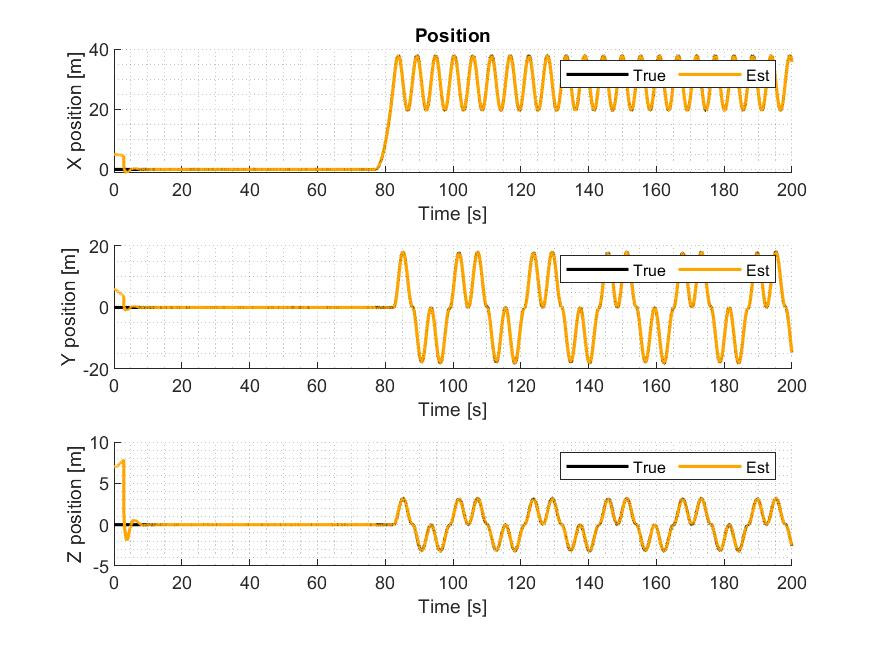
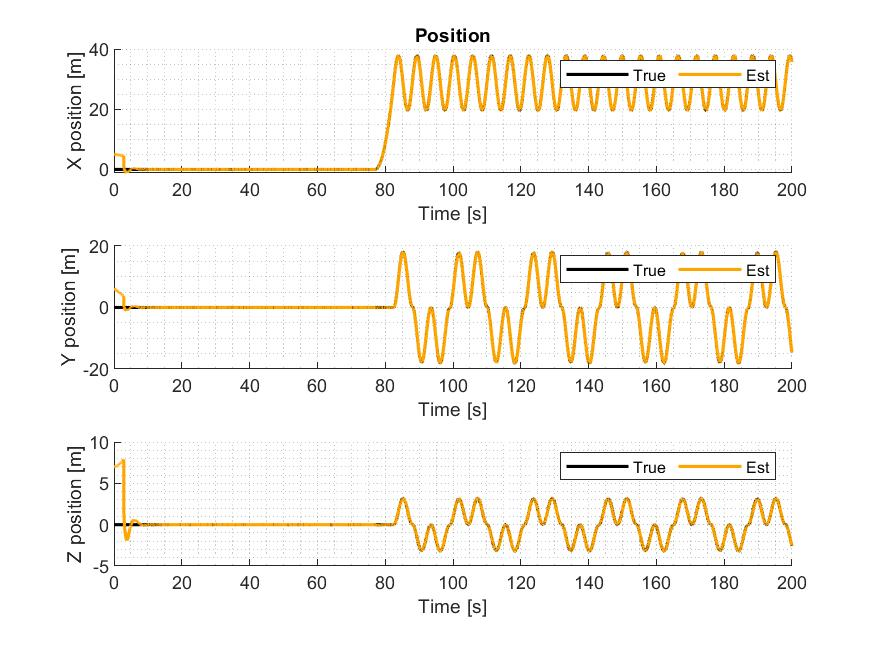
Remove the gravity from the error state vector. The results were identical to before...

diff --git a/ESKF/ErrorStateKalman_sola.m b/ESKF/ErrorStateKalman_sola.m
@@ -75,28 +75,28 @@ function [delta_x, E] = ErrorStateKalman_sola(f_b_ins, race_started, r_b_1, r_b_
 %                        1e-10 1e-10 1e-10 ...
 %                        1e-6 1e-6 1e-6]); 
                    
-       P_hat = diag([1e-1 * ones(1, 3) 1e-2 * ones(1, 3) 5e-2 * ones(1, 3) 1e-10 * ones(1, 3) 1e-6 * ones(1, 3) 1e-6 * ones(1, 3)]);  % Initial error covariance
+       P_hat = diag([1e-1 * ones(1, 3) 1e-2 * ones(1, 3) 5e-2 * ones(1, 3) 1e-10 * ones(1, 3) 1e-6 * ones(1, 3)]);  % Initial error covariance
 
        delta_x = 0;
        
     else
-          A_dp = [Z3  I3  Z3  Z3  Z3  Z3];
-          A_dv = [Z3  Z3  -R_nb_hat  -R_nb_hat*Smtrx(f_b_imu - bacc_b_ins)  Z3  I3];
-          A_dbacc = [Z3  Z3  -(1/Tacc)*I3  Z3  Z3  Z3];
-          A_dtheta = [Z3  Z3  Z3  -Smtrx(omega_b_imu - bars_b_ins)  -I3  Z3];
-          A_dbars = [Z3  Z3  Z3  Z3  -(1/Tars)*I3  Z3];
-          A_dg = [Z3  Z3  Z3  Z3  Z3  Z3];
+          A_dp = [Z3  I3  Z3  Z3  Z3 ];
+          A_dv = [Z3  Z3  -R_nb_hat  -R_nb_hat*Smtrx(f_b_imu - bacc_b_ins)  Z3 ];
+          A_dbacc = [Z3  Z3  -(1/Tacc)*I3  Z3  Z3];
+          A_dtheta = [Z3  Z3  Z3  -Smtrx(omega_b_imu - bars_b_ins)  -I3];
+          A_dbars = [Z3  Z3  Z3  Z3  -(1/Tars)*I3];
+          A_dg = [Z3  Z3  Z3  Z3  Z3];
           
           if (~race_started)
               % Do not estimate 
-              A_dv = [Z3  Z3  -R_nb_hat  -R_nb_hat*Smtrx(f_b_imu - bacc_b_ins)  Z3  Z3];
+              A_dv = [Z3  Z3  -R_nb_hat  -R_nb_hat*Smtrx(f_b_imu - bacc_b_ins)  Z3 ];
           end
           
-          A =  [A_dp ; A_dv ; A_dbacc ; A_dtheta ; A_dbars ; A_dg];
+          A =  [A_dp ; A_dv ; A_dbacc ; A_dtheta ; A_dbars ];
           
           
          % Discrete-time model
-         Ad = eye(18) + h * A;
+         Ad = eye(15) + h * A;
 %          if (~race_started)
 %              % Do not estimate gravity error
 %              Ad = blkdiag(I3,I3,I3,I3,I3,Z3) + h * A;
@@ -115,20 +115,20 @@ function [delta_x, E] = ErrorStateKalman_sola(f_b_ins, race_started, r_b_1, r_b_
                 -R_nb_hat      Z3    Z3   Z3    % w_acc
                        Z3      I3    Z3   Z3    % w_acc_bias
                        Z3      Z3   -I3   Z3    % w_ars
-                       Z3      Z3    Z3   I3  % w_ars_bias
-                       Z3      Z3    Z3   Z3 ]; 
+                       Z3      Z3    Z3   I3];  % w_ars_bias
+%                        Z3      Z3    Z3   Z3]; 
 
           
 %           H = [ I3 Z3 Z3 Z3 Z3 Z3
 %                 I3 Z3 Z3 I3 Z3 Z3];
 
-          H_gnss1 = [I3  Z3  Z3  -R_nb_hat*Smtrx(r_b_1)  Z3  Z3];
+          H_gnss1 = [I3  Z3  Z3  -R_nb_hat*Smtrx(r_b_1)  Z3];
           
-          H_gnss2 = [I3  Z3  Z3  -R_nb_hat*Smtrx(r_b_2)  Z3  Z3];
+          H_gnss2 = [I3  Z3  Z3  -R_nb_hat*Smtrx(r_b_2)  Z3];
           
-          H_vec = [Z3  Z3  Z3  -Smtrx(R_nb_hat*(r_b_2-r_b_1))  Z3  Z3];
+          H_vec = [Z3  Z3  Z3  -Smtrx(R_nb_hat*(r_b_2-r_b_1))  Z3];
           
-          H_acc = [Z3  Z3  Z3  -Smtrx(R_nb_hat' * g_n_nb)  Z3  Z3];              
+          H_acc = [Z3  Z3  Z3  -Smtrx(R_nb_hat' * g_n_nb)  Z3];              
 %           H_acc = [Z3  Z3  Z3  Z3  Z3  Z3]; 
 
           H_gss_pos = [ 0, 0, 0];
@@ -138,7 +138,7 @@ function [delta_x, E] = ErrorStateKalman_sola(f_b_ins, race_started, r_b_1, r_b_
           H_gss_bars = [(r_b_3(3)*(R_nb_hat(1,2)*v_n_ins(1) + R_nb_hat(2,2)*v_n_ins(2) + R_nb_hat(3,2)*v_n_ins(3) - bars_b_ins(2)*r_b_3(1) + bars_b_ins(1)*r_b_3(3) - omega_b_imu(1)*r_b_3(3) + omega_b_imu(3)*r_b_3(1)))/((R_nb_hat(1,2)*v_n_ins(1) + R_nb_hat(2,2)*v_n_ins(2) + R_nb_hat(3,2)*v_n_ins(3) - bars_b_ins(2)*r_b_3(1) + bars_b_ins(1)*r_b_3(3) - omega_b_imu(1)*r_b_3(3) + omega_b_imu(3)*r_b_3(1))^2 + (R_nb_hat(1,1)*v_n_ins(1) + R_nb_hat(1,3)*v_n_ins(2) + R_nb_hat(2,3)*v_n_ins(3) + bars_b_ins(2)*r_b_3(2) - bars_b_ins(2)*r_b_3(3) + omega_b_imu(2)*r_b_3(3) - omega_b_imu(3)*r_b_3(2))^2)^(1/2), -(r_b_3(3)*(R_nb_hat(1,1)*v_n_ins(1) + R_nb_hat(1,3)*v_n_ins(2) + R_nb_hat(2,3)*v_n_ins(3) + bars_b_ins(2)*r_b_3(2) - bars_b_ins(2)*r_b_3(3) + omega_b_imu(2)*r_b_3(3) - omega_b_imu(3)*r_b_3(2)))/((R_nb_hat(1,2)*v_n_ins(1) + R_nb_hat(2,2)*v_n_ins(2) + R_nb_hat(3,2)*v_n_ins(3) - bars_b_ins(2)*r_b_3(1) + bars_b_ins(1)*r_b_3(3) - omega_b_imu(1)*r_b_3(3) + omega_b_imu(3)*r_b_3(1))^2 + (R_nb_hat(1,1)*v_n_ins(1) + R_nb_hat(1,3)*v_n_ins(2) + R_nb_hat(2,3)*v_n_ins(3) + bars_b_ins(2)*r_b_3(2) - bars_b_ins(2)*r_b_3(3) + omega_b_imu(2)*r_b_3(3) - omega_b_imu(3)*r_b_3(2))^2)^(1/2), -(r_b_3(1)*(R_nb_hat(1,2)*v_n_ins(1) + R_nb_hat(2,2)*v_n_ins(2) + R_nb_hat(3,2)*v_n_ins(3) - bars_b_ins(2)*r_b_3(1) + bars_b_ins(1)*r_b_3(3) - omega_b_imu(1)*r_b_3(3) + omega_b_imu(3)*r_b_3(1)) - r_b_3(2)*(R_nb_hat(1,1)*v_n_ins(1) + R_nb_hat(1,3)*v_n_ins(2) + R_nb_hat(2,3)*v_n_ins(3) + bars_b_ins(2)*r_b_3(2) - bars_b_ins(2)*r_b_3(3) + omega_b_imu(2)*r_b_3(3) - omega_b_imu(3)*r_b_3(2)))/((R_nb_hat(1,2)*v_n_ins(1) + R_nb_hat(2,2)*v_n_ins(2) + R_nb_hat(3,2)*v_n_ins(3) - bars_b_ins(2)*r_b_3(1) + bars_b_ins(1)*r_b_3(3) - omega_b_imu(1)*r_b_3(3) + omega_b_imu(3)*r_b_3(1))^2 + (R_nb_hat(1,1)*v_n_ins(1) + R_nb_hat(1,3)*v_n_ins(2) + R_nb_hat(2,3)*v_n_ins(3) + bars_b_ins(2)*r_b_3(2) - bars_b_ins(2)*r_b_3(3) + omega_b_imu(2)*r_b_3(3) - omega_b_imu(3)*r_b_3(2))^2)^(1/2)]; 
           H_gss_g = [0, 0, 0];
           
-          H_gss = [H_gss_pos  H_gss_vel  H_gss_bacc  H_gss_att  H_gss_bars  H_gss_g];
+          H_gss = [H_gss_pos  H_gss_vel  H_gss_bacc  H_gss_att  H_gss_bars ];
           
           
         std_pos = 2;
@@ -204,16 +204,16 @@ function [delta_x, E] = ErrorStateKalman_sola(f_b_ins, race_started, r_b_1, r_b_
 
          % corrector 
          delta_x = K * delta_y;
-         P_hat = (eye(18)-K*H) * P_hat * (eye(18) - K*H)' + K*R*K';
+         P_hat = (eye(15)-K*H) * P_hat * (eye(15) - K*H)' + K*R*K';
         
          % ESKF reset
          delta_theta = delta_x(10:12);
-         G = [ I3 Z3 Z3                            Z3 Z3 Z3 
-               Z3 I3 Z3                            Z3 Z3 Z3
-               Z3 Z3 I3                            Z3 Z3 Z3
-               Z3 Z3 Z3 (I3 - Smtrx(0.5*delta_theta)) Z3 Z3
-               Z3 Z3 Z3                            Z3 I3 Z3
-               Z3 Z3 Z3                            Z3 Z3 I3];
+         G = [ I3 Z3 Z3                            Z3 Z3 
+               Z3 I3 Z3                            Z3 Z3
+               Z3 Z3 I3                            Z3 Z3
+               Z3 Z3 Z3 (I3 - Smtrx(0.5*delta_theta)) Z3
+               Z3 Z3 Z3                            Z3 I3];
+%                Z3 Z3 Z3                            Z3 Z3 I3];
            
          P_hat = G * P_hat * G';
         

diff --git a/ESKF/MESKF_sola.m b/ESKF/MESKF_sola.m
@@ -51,7 +51,7 @@ f_b_imu_0 = [0 0 0]';
 omega_b_imu_0 = [0 0 0]';
 bacc_b_ins = [0 0 0]';
 bars_b_ins = [0 0 0]';
-E_prev = zeros(18,12);
+E_prev = zeros(15,12);
 ErrorStateKalman_sola(0,0,r_b_1, r_b_2, r_b_3, E_prev,0, 0, f_low, 1, f_b_imu_0, omega_b_imu_0, g_n_nb, x_ins);
 
 % init
@@ -189,7 +189,7 @@ for k = 1:N
         % inject error state into nominal state
         x_ins(1:9) = x_ins(1:9) + delta_x(1:9);
         x_ins(14:16) = x_ins(14:16) + delta_x(13:15);
-        g_n_hat = g_n_hat + delta_x(16:18);
+%         g_n_hat = g_n_hat + delta_x(16:18);
 %         disp(delta_x(16:18));
         h_low = 1/10;
         q_delta_omega = qbuild(delta_x(10:12)/h_low, h_low);

diff --git a/ESKF/ChiSquareTest.m b/ESKF/ChiSquareTest.m
@@ -17,7 +17,7 @@ S = H_in * P_hat * H_in' + R;
 T = delta_y' * (S^(-1)) * delta_y;
 if (T > thresh) 
     isOutlier = true;
-    H_out = zeros(dim,18);
+    H_out = zeros(dim,length(H_in));
 else
     isOutlier = false;
     H_out = H_in;
